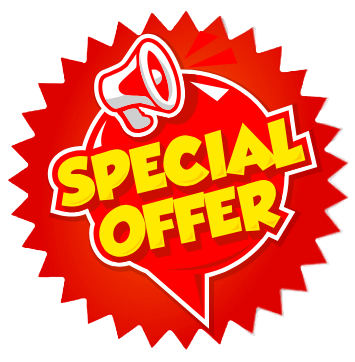
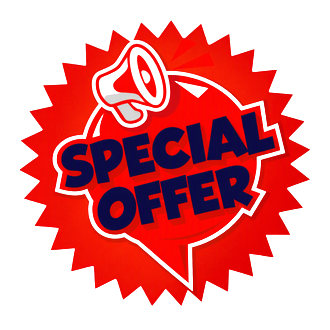
7 files updated

diff --git a/index.html b/index.html
@@ -83,9 +83,35 @@
 </head>
 <body>
   <!-- Floating Special Offer Badge -->
-  <a href="#contact" class="floating-offer" aria-label="Special Offer - Get In Touch">
-    <img src="images/specialoffer.png" alt="Special Offer" class="floating-offer-img" loading="eager" decoding="async">
-  </a>
+  <div class="floating-offer-wrap" id="floatingOfferWrap">
+    <a href="#contact" class="floating-offer" aria-label="Special Offer - Get In Touch">
+      <img src="images/specialoffer.png" alt="Special Offer" class="floating-offer-img" loading="eager" decoding="async">
+    </a>
+    <button type="button" class="floating-offer-close" id="floatingOfferClose" aria-label="Dismiss special offer">&times;</button>
+  </div>
+
+  <script>
+    // Lets the visitor manually remove the floating special-offer badge by
+    // tapping the small "x" cut button. Uses sessionStorage so it stays
+    // dismissed while they browse the site, but shows again on a future visit.
+    (function () {
+      const wrap = document.getElementById("floatingOfferWrap");
+      const closeBtn = document.getElementById("floatingOfferClose");
+      if (!wrap || !closeBtn) return;
+
+      if (sessionStorage.getItem("gpoOfferDismissed") === "1") {
+        wrap.style.display = "none";
+        return;
+      }
+
+      closeBtn.addEventListener("click", (e) => {
+        e.preventDefault();
+        e.stopPropagation();
+        wrap.style.display = "none";
+        sessionStorage.setItem("gpoOfferDismissed", "1");
+      });
+    })();
+  </script>
 
   <!-- Header -->
   <header>
@@ -110,6 +136,7 @@
         <li><a href="#export-process">Process</a></li>
         <li><a href="#global-presence">Global Research</a></li>
         <li><a href="#partners">Leadership</a></li>
+        <li><a href="#profile">Profile</a></li>
         <li><a href="#blog">Our Blog</a></li>
         <li class="nav-quote-item"><a href="#contact" class="nav-quote-btn">Request a Quote</a></li>
       </ul>
@@ -606,9 +633,9 @@
   <img src="images/cow dung cake.png" alt="Cow Dung Logo" class="products-image" loading="lazy" decoding="async">
   <h2 class="products-title">Cow Dung</h2>
 </div>
-      <div class="products-card" id="productsHoney&AlloveraCard">
-  <img src="images/aloe.png" alt="Honey & Allovera Logo" class="products-image" loading="lazy" decoding="async">
-  <h2 class="products-title">Honey & Allovera</h2>
+      <div class="products-card" id="productsAlloveraCard">
+  <img src="images/aloe.png" alt="Allovera Logo" class="products-image" loading="lazy" decoding="async">
+  <h2 class="products-title">Allovera</h2>
 </div>
       <div class="products-card" id="productsMushroomsCard">
   <img src="images/mushroom.png" alt="Mushrooms Logo" class="products-image" loading="lazy" decoding="async">
@@ -795,23 +822,9 @@ const PRODUCTS_DATA = {
 },
 
 
- "productsHoney&AlloveraCard": {
-  title: "Honey & Allovera",
+ "productsAlloveraCard": {
+  title: "Allovera",
   subcategories: [
-    {
-      title: "Honey",
-      logo: "images/honey.png",
-      images: [
-        { src: "images/Alfalfa Honey.jpg", name: "Alfalfa Honey" },
-        { src: "images/Baker's Special Honey.jpg", name: "Baker's Special Honey" },
-        { src: "images/Clover Honey.jpg", name: "Clover Honey" },
-        { src: "images/Eucalyptus Honey.jpg", name: "Eucalyptus Honey" },
-        { src: "images/Golden Honey.jpg", name: "Golden Honey" },
-        { src: "images/Orange Blossom Honey.jpg", name: "Orange Blossom Honey" },
-        { src: "images/Premium Honey.jpg", name: "Premium Honey" },
-        { src: "images/Wildflower Honey.jpg", name: "Wildflower Honey" }
-      ]
-    },
     {
       title: "Alloevera",
       logo: "images/aloe2.png",
@@ -1119,12 +1132,6 @@ const PRODUCTS_DATA = {
       taste: "a distinct aroma and flavor ranging from brisk and malty to delicate and floral, depending on the leaf",
       benefits: "naturally rich in antioxidants, and a gentle, comforting everyday beverage",
       uses: "brewed hot or cold as a daily beverage across households, cafes, and hospitality"
-    },
-    "Honey": {
-      tag: "Pure & Natural Sweetener",
-      taste: "a naturally sweet, floral taste that varies subtly with the source blossom",
-      benefits: "a natural sweetener valued for its antioxidant properties and traditional wellness use",
-      uses: "used in beverages, cooking, and as a natural alternative to refined sugar"
     },
     "Alloevera": {
       tag: "Wellness & Skincare",
@@ -1537,6 +1544,29 @@ const PRODUCTS_DATA = {
         <h3 class="partner-name">Avisek Dey</h3>
         <p class="partner-role">Partner</p>
         <p class="partner-bio">Avisek co-leads GLOBAL PRIME ORBIT, focusing on sourcing, logistics, and building long-term partnerships with suppliers so our clients get consistent quality and dependable delivery.</p>
+      </div>
+    </div>
+  </div>
+</section>
+
+<!-- Profile Section -->
+<section id="profile" class="reveal-up profile">
+  <div class="profile-container">
+    <p class="eyebrow">Leadership Profiles</p>
+    <h2>Partner Profiles</h2>
+    <p class="profile-intro">A closer look at the two partners behind GLOBAL PRIME ORBIT and the roles they carry.</p>
+    <div class="profile-grid">
+      <div class="profile-card">
+        <img src="images/tanushree-singha.jpg" alt="Tanushree Singha" class="profile-photo" loading="lazy" decoding="async">
+        <h3 class="profile-name">Tanushree Singha</h3>
+        <p class="profile-role">Partner — Marketing &amp; Sales</p>
+        <p class="profile-bio">Tanushree Singha is a founding partner of GLOBAL PRIME ORBIT and leads the company's entire marketing and sales function. She is the first point of contact for buyers reaching out from India, the UAE, Europe, the USA, and across the Asia Pacific region, and personally manages every enquiry from the first message through to a confirmed order. Tanushree built the company's outreach strategy from the ground up, developing the relationships with agro commodity growers, textile weavers, artisans, and jewellery makers that now form the backbone of the supplier network. She oversees pricing strategy, bulk quotations, and client negotiations, making sure every deal reflects fair value for both buyer and supplier. Her day-to-day work includes coordinating digital marketing, guiding the sales team, following up on export leads, and representing GLOBAL PRIME ORBIT at buyer meetings and trade enquiries. She is known among clients for her responsiveness, with quotations typically shared within 24 hours of a request — a standard she set and maintains personally. Tanushree works closely with the operations side of the business to ensure that sales commitments made to buyers translate into on-time shipments and accurate documentation. Beyond individual transactions, she also shapes the company's broader growth strategy, identifying new product categories and export markets worth pursuing. Her approach blends warmth with discipline, treating every client relationship as long-term rather than transactional. Clients and colleagues alike describe her as approachable, detail-oriented, and hands-on with every account she manages. She remains the primary point of contact for all sales and marketing matters at GLOBAL PRIME ORBIT.</p>
+      </div>
+      <div class="profile-card">
+        <img src="images/avisek-dey.jpg" alt="Avisek Dey" class="profile-photo" loading="lazy" decoding="async">
+        <h3 class="profile-name">Avisek Dey</h3>
+        <p class="profile-role">Partner — Accounts, Legal &amp; Foreign Relations</p>
+        <p class="profile-bio">Avisek Dey is a founding partner of GLOBAL PRIME ORBIT and holds responsibility for the company's accounts, legal compliance, and international relations. He manages the financial backbone of the business, overseeing bookkeeping, invoicing, payment reconciliation, and the accurate documentation required for every cross-border transaction. As the company's legal advisor, he ensures that contracts, trade agreements, and shipment paperwork comply with both Indian regulations and the import laws of destination countries, reducing the risk of customs delays for buyers. He plays a central role in developing GLOBAL PRIME ORBIT's foreign connections, building and maintaining relationships with international buyers, freight forwarders, and regulatory bodies across the UAE, Europe, the USA, and the Asia Pacific. Avisek is closely involved in structuring Incoterms, payment terms, and letters of credit for larger export orders, working to protect the interests of both the company and its trading partners. He also oversees due diligence on new suppliers and buyers, verifying credentials before the company commits to a trading relationship. His background in finance and trade compliance allows him to anticipate regulatory changes and adjust processes accordingly, keeping shipments moving smoothly as international trade rules evolve. He works in close coordination with Tanushree Singha, aligning the company's sales commitments with what is financially and legally achievable for each shipment. He is methodical and detail-driven, preferring to resolve documentation or compliance issues well before they can affect a client's delivery timeline. Beyond his operational duties, Avisek also contributes to the company's long-term strategic planning, particularly around expanding into new export markets.</p>
       </div>
     </div>
   </div>

diff --git a/style.css b/style.css
@@ -2100,6 +2100,84 @@ header nav ul li a.active {
 }
 
 /* ===========================
+   Profile Section (Partner Bios)
+   =========================== */
+.profile {
+  background: var(--ink);
+  padding: 100px 20px;
+  text-align: center;
+}
+.profile .eyebrow { color: var(--saffron); }
+.profile-container {
+  max-width: 1040px;
+  margin: 0 auto;
+}
+.profile h2 {
+  color: var(--text-on-ink);
+  margin-bottom: 14px;
+  font-weight: 600;
+  font-size: clamp(1.8rem, 3vw, 2.3rem);
+}
+.profile-intro {
+  color: var(--text-on-ink-soft);
+  max-width: 560px;
+  margin: 0 auto 48px;
+  font-size: 0.98rem;
+  line-height: 1.7;
+}
+.profile-grid {
+  display: grid;
+  grid-template-columns: repeat(auto-fit, minmax(340px, 1fr));
+  gap: 30px;
+  align-items: stretch;
+}
+.profile-card {
+  background: rgba(247,242,233,0.05);
+  border: 1px solid rgba(227,160,8,0.2);
+  border-radius: var(--radius-md);
+  padding: 36px 30px;
+  text-align: center;
+  display: flex;
+  flex-direction: column;
+  align-items: center;
+  transition: transform 0.3s var(--ease), box-shadow 0.3s var(--ease), border-color 0.3s var(--ease);
+}
+.profile-card:hover {
+  transform: translateY(-6px);
+  border-color: var(--saffron);
+  box-shadow: var(--shadow-md);
+}
+.profile-photo {
+  width: 130px;
+  height: 130px;
+  border-radius: 50%;
+  object-fit: cover;
+  margin-bottom: 20px;
+  border: 3px solid rgba(227,160,8,0.35);
+  box-shadow: 0 8px 22px rgba(227,160,8,0.3);
+}
+.profile-name {
+  color: var(--text-on-ink);
+  font-size: 1.2rem;
+  font-weight: 600;
+  margin-bottom: 4px;
+}
+.profile-role {
+  color: var(--saffron);
+  font-size: 0.85rem;
+  font-weight: 600;
+  letter-spacing: 0.04em;
+  text-transform: uppercase;
+  margin-bottom: 16px;
+}
+.profile-bio {
+  color: var(--text-on-ink-soft);
+  font-size: 0.92rem;
+  line-height: 1.8;
+  text-align: left;
+}
+
+/* ===========================
    Testimonials Section
    =========================== */
 .testimonials {
@@ -2479,6 +2557,8 @@ header nav ul li a.active {
   .testimonials { padding-top: 70px; padding-bottom: 70px; }
   .partners { padding-top: 70px; padding-bottom: 70px; }
   .partner-card { padding: 30px 22px; }
+  .profile { padding-top: 70px; padding-bottom: 70px; }
+  .profile-card { padding: 28px 20px; }
   .blog { padding-top: 70px; padding-bottom: 70px; }
   .testimonial-text { min-height: 0; }
   .cookie-banner { left: 12px; right: 12px; padding: 16px 40px 16px 16px; flex-direction: column; align-items: flex-start; gap: 12px; }
@@ -2491,15 +2571,21 @@ header nav ul li a.active {
 /* ============================================
    Floating Special Offer Badge (fixed, all pages/sections)
    ============================================ */
-.floating-offer {
+.floating-offer-wrap {
   position: fixed;
   left: 16px;
   top: 50%;
   transform: translateY(-50%);
   z-index: 9999;
-  display: block;
   width: 90px;
   height: 90px;
+}
+
+.floating-offer {
+  position: relative;
+  display: block;
+  width: 100%;
+  height: 100%;
   border-radius: 50%;
   cursor: pointer;
   animation: floatingOfferFloat 3s ease-in-out infinite,
@@ -2514,9 +2600,36 @@ header nav ul li a.active {
   display: block;
 }
 
+/* Manual "cut" button - lets the visitor remove the floating offer themselves */
+.floating-offer-close {
+  position: absolute;
+  top: -6px;
+  right: -6px;
+  width: 22px;
+  height: 22px;
+  border-radius: 50%;
+  background: var(--ink);
+  color: var(--text-on-ink, #fff);
+  border: 1px solid rgba(255,255,255,0.3);
+  font-size: 15px;
+  line-height: 1;
+  display: flex;
+  align-items: center;
+  justify-content: center;
+  cursor: pointer;
+  z-index: 10000;
+  padding: 0;
+  box-shadow: 0 2px 8px rgba(0,0,0,0.4);
+  transition: background 0.2s var(--ease), transform 0.2s var(--ease);
+}
+.floating-offer-close:hover {
+  background: var(--rust);
+  transform: scale(1.08);
+}
+
 @keyframes floatingOfferFloat {
-  0%, 100% { transform: translateY(-50%) translateX(0); }
-  50% { transform: translateY(-50%) translateX(6px); }
+  0%, 100% { transform: translateX(0); }
+  50% { transform: translateX(6px); }
 }
 
 @keyframes floatingOfferGlow {
@@ -2533,9 +2646,14 @@ header nav ul li a.active {
 }
 
 @media (max-width: 768px) {
-  .floating-offer {
+  .floating-offer-wrap {
     width: 64px;
     height: 64px;
     left: 10px;
+  }
+  .floating-offer-close {
+    width: 18px;
+    height: 18px;
+    font-size: 12px;
   }
 }
